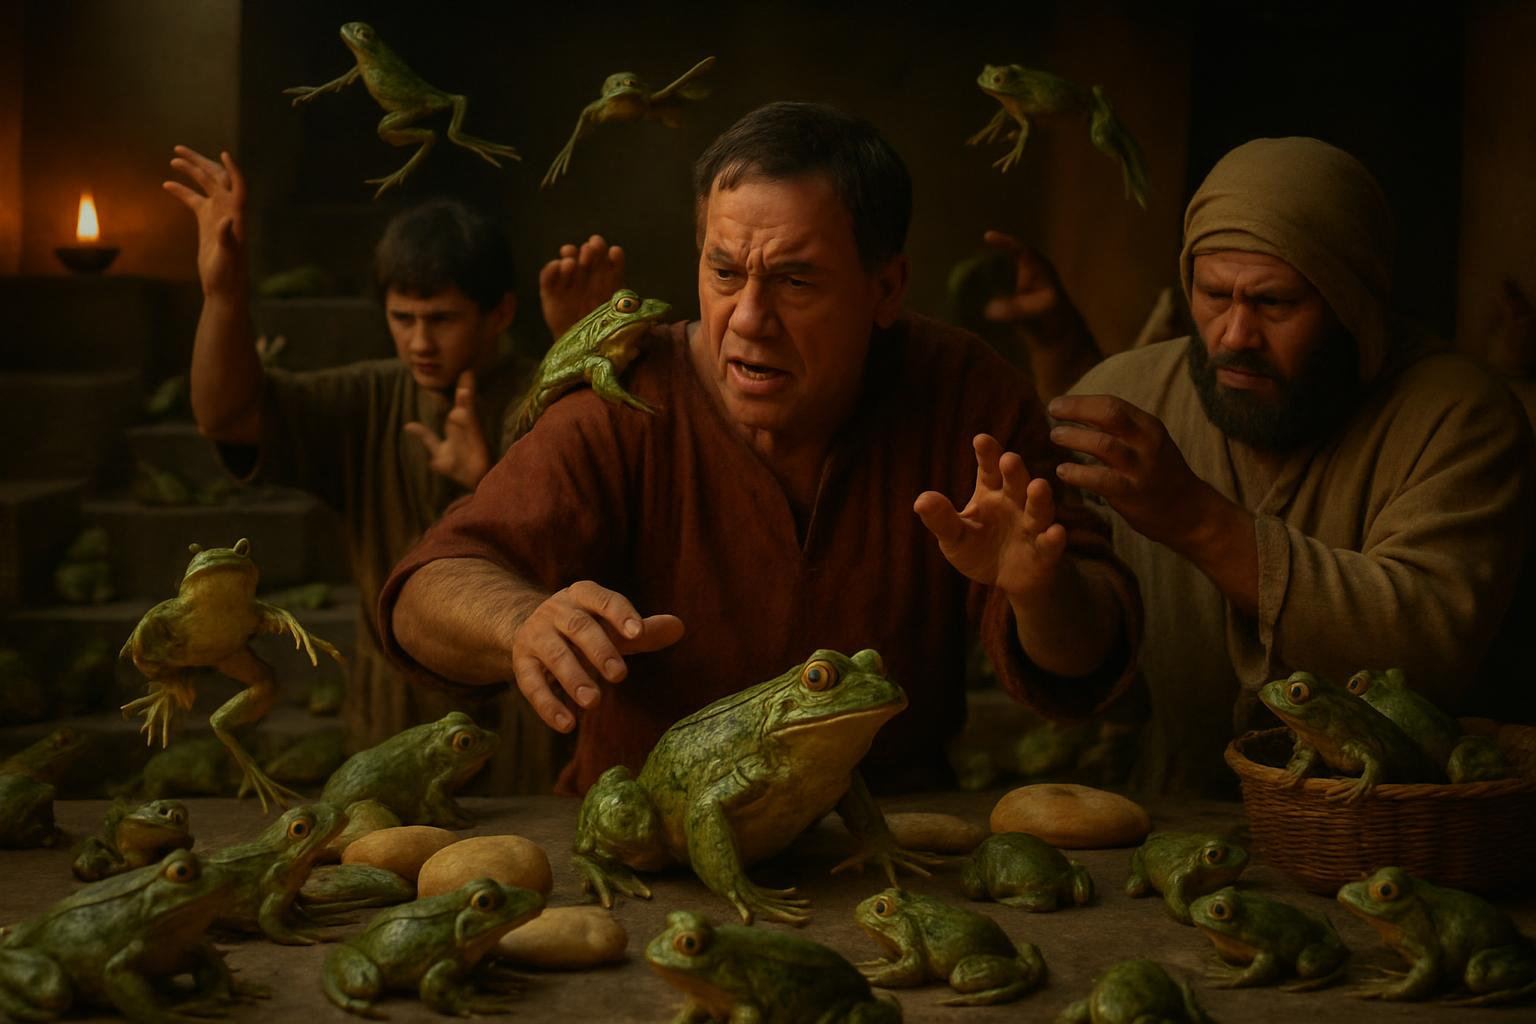
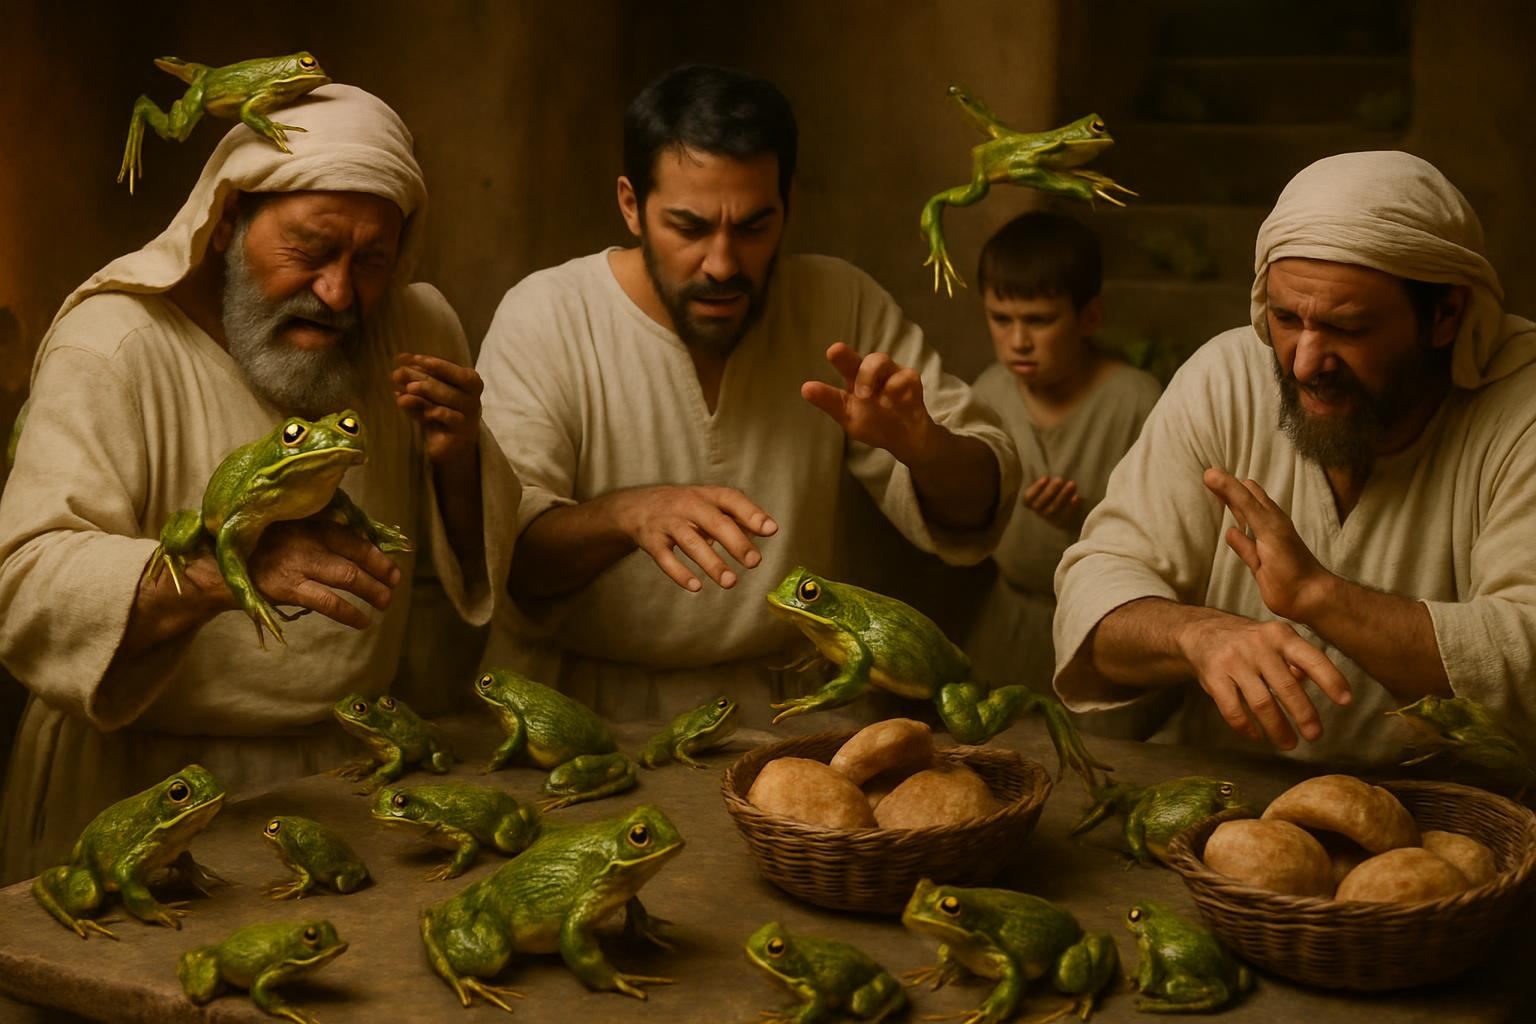
Add images for all ten plagues; rename flies and livestock to Wild animals and Pestilence; update prompts and About text

diff --git a/src/routes/index.tsx b/src/routes/index.tsx
@@ -83,7 +83,7 @@ function Index() {
       </main>
       <footer><span>EXODUS <span className="mx-3">/</span> An ancient story. An enduring hope.</span><span>Images: AI-generated artistic interpretations</span></footer>
       {modalOpen && <div className="reader-overlay" onClick={e => { if (e.target === e.currentTarget) { setChapter(null); setAbout(false); } }}><section className="reader" role="dialog" aria-modal="true" aria-labelledby="reader-title">
-        {chapter ? <><div className="reader-cover"><img src={chapter.image} alt="Biblical artistic interpretation" width={1536} height={1024} /><Button ref={closeButton} className="reader-close" size="icon" variant="cinema" aria-label="Close chapter" onClick={() => setChapter(null)}><X /></Button></div><div className="reader-body"><div className="eyebrow">CHAPTER {String(chapter.id).padStart(2,'0')} · {chapter.act}</div><h2 id="reader-title">{chapter.title}</h2><div className="reader-reference">{chapter.reference}</div><p className="reader-description">{chapter.description}</p><blockquote className="reader-quote">“{chapter.verse}”</blockquote>{chapter.video ? <video controls src={chapter.video} className="w-full mt-6" /> : <div className="reader-status"><Film size={16} /><span>Video unavailable — generation is awaiting workspace credits.</span></div>}{chapter.act === 'The plagues' && <Link to="/plagues/$slug" params={{ slug: chapterSlug(chapter) }} className="inline-block mt-4 text-sm text-primary">Open this plague’s page <ArrowRight className="inline" size={14} /></Link>}<div className="reader-pagination"><Button variant="ghost" disabled={chapter.id === 1} onClick={() => { const previous = chapters[chapter.id - 2]; if (previous) openChapter(previous); }}><ArrowLeft /> Previous</Button><Button variant="outline" disabled={chapter.id === 12} onClick={() => { const next = chapters[chapter.id]; if (next) openChapter(next); }}>Next chapter <ArrowRight /></Button></div></div></> : <div className="about-body"><div className="flex justify-between"><div className="eyebrow"><Sparkles size={14} /> THE STORY OF DELIVERANCE</div><Button ref={closeButton} variant="ghost" size="icon" aria-label="Close about" onClick={() => setAbout(false)}><X /></Button></div><h2 id="reader-title">An ancient story.<br />An enduring hope.</h2><p>EXODUS follows the Old Testament account of Hebrew slavery in Egypt, the ten plagues, the first Passover, and Israel’s departure and crossing of the sea.</p><p>The twelve chapters follow Exodus 1–14. Chapter descriptions are summaries, not scripture quotations.</p><p>Images are AI-generated artistic interpretations, not historical footage. Generated videos are currently unavailable. Themes include enslavement, suffering, and death; the presentation avoids graphic imagery.</p><Button onClick={() => { setAbout(false); openChapter(chapters[0]); }}><BookOpen /> Begin the journey</Button></div>}
+        {chapter ? <><div className="reader-cover"><img src={chapter.image} alt="Biblical artistic interpretation" width={1536} height={1024} /><Button ref={closeButton} className="reader-close" size="icon" variant="cinema" aria-label="Close chapter" onClick={() => setChapter(null)}><X /></Button></div><div className="reader-body"><div className="eyebrow">CHAPTER {String(chapter.id).padStart(2,'0')} · {chapter.act}</div><h2 id="reader-title">{chapter.title}</h2><div className="reader-reference">{chapter.reference}</div><p className="reader-description">{chapter.description}</p><blockquote className="reader-quote">“{chapter.verse}”</blockquote>{chapter.video ? <video controls src={chapter.video} className="w-full mt-6" /> : <div className="reader-status"><Film size={16} /><span>Video unavailable — generation is awaiting workspace credits.</span></div>}{chapter.act === 'The plagues' && <Link to="/plagues/$slug" params={{ slug: chapterSlug(chapter) }} className="inline-block mt-4 text-sm text-primary">Open this plague’s page <ArrowRight className="inline" size={14} /></Link>}<div className="reader-pagination"><Button variant="ghost" disabled={chapter.id === 1} onClick={() => { const previous = chapters[chapter.id - 2]; if (previous) openChapter(previous); }}><ArrowLeft /> Previous</Button><Button variant="outline" disabled={chapter.id === 12} onClick={() => { const next = chapters[chapter.id]; if (next) openChapter(next); }}>Next chapter <ArrowRight /></Button></div></div></> : <div className="about-body"><div className="flex justify-between"><div className="eyebrow"><Sparkles size={14} /> THE STORY OF DELIVERANCE</div><Button ref={closeButton} variant="ghost" size="icon" aria-label="Close about" onClick={() => setAbout(false)}><X /></Button></div><h2 id="reader-title">An ancient story.<br />An enduring hope.</h2><p>EXODUS follows the Old Testament account of Hebrew slavery in Egypt, the ten plagues, the first Passover, and Israel’s departure and crossing of the sea.</p><p>The twelve chapters follow Exodus 1–14. Chapter descriptions are summaries, not scripture quotations.</p><p>Images are AI-generated artistic interpretations, not historical footage. Generated videos are currently unavailable. Themes include enslavement, suffering, and death.</p><Button onClick={() => { setAbout(false); openChapter(chapters[0]); }}><BookOpen /> Begin the journey</Button></div>}
       </section></div>}
     </>
   );

diff --git a/src/lib/exodus-chapters.ts b/src/lib/exodus-chapters.ts
@@ -8,8 +8,8 @@ const baseChapters: Chapter[] = [
   { id: 2, title: 'Water into blood', act: 'The plagues', reference: 'Exodus 7:14–25', description: 'At God’s command, Aaron strikes the Nile with his rod. Its water turns to blood, the fish die, and the Egyptians cannot drink from the river.', verse: 'And all the waters that were in the river were turned to blood.', image: plagues },
   { id: 3, title: 'The frogs', act: 'The plagues', reference: 'Exodus 8:1–15', description: 'Frogs come up from the waters and fill the houses, bedrooms, ovens, and kneading troughs of Egypt. Pharaoh promises release, then hardens his heart when relief comes.', verse: 'And Aaron stretched out his hand over the waters of Egypt; and the frogs came up, and covered the land of Egypt.', image: plagues },
   { id: 4, title: 'The lice', act: 'The plagues', reference: 'Exodus 8:16–19', description: 'Aaron strikes the dust, and it becomes lice on people and animals. The Egyptian magicians cannot reproduce this sign. Some translations call these insects gnats.', verse: 'Then the magicians said unto Pharaoh, This is the finger of God.', image: plagues },
-  { id: 5, title: 'The flies', act: 'The plagues', reference: 'Exodus 8:20–32', description: 'Swarms of flies fill the homes and land of Egypt. Goshen, where the Israelites live, is spared. Pharaoh again refuses to let the people go after the plague is removed.', verse: 'And the LORD did so; and there came a grievous swarm of flies into the house of Pharaoh, and into his servants’ houses, and into all the land of Egypt.', image: plagues },
-  { id: 6, title: 'The livestock', act: 'The plagues', reference: 'Exodus 9:1–7', description: 'A severe pestilence strikes Egypt’s livestock in the field. The livestock of Israel is spared, but Pharaoh’s heart remains hardened.', verse: 'And the LORD shall sever between the cattle of Israel and the cattle of Egypt: and there shall nothing die of all that is the children’s of Israel.', image: plagues },
+  { id: 5, title: 'Wild animals', act: 'The plagues', reference: 'Exodus 8:20–32', description: 'Swarms of wild animals fill the houses and land of Egypt (some translations say flies or swarms of insects). Goshen, where the Israelites live, is spared. Pharaoh again refuses to let the people go after the plague is removed.', verse: 'And I will put a division between my people and thy people: to morrow shall this sign be.', image: plagues },
+  { id: 6, title: 'Pestilence', act: 'The plagues', reference: 'Exodus 9:1–7', description: 'A severe pestilence strikes Egypt’s livestock in the field. The livestock of Israel is spared, but Pharaoh’s heart remains hardened.', verse: 'And the LORD shall sever between the cattle of Israel and the cattle of Egypt: and there shall nothing die of all that is the children’s of Israel.', image: plagues },
   { id: 7, title: 'The boils', act: 'The plagues', reference: 'Exodus 9:8–12', description: 'Moses scatters furnace ashes toward heaven. Painful boils break out on people and animals throughout Egypt; even the magicians cannot stand before Moses.', verse: 'And they took ashes of the furnace, and stood before Pharaoh; and Moses sprinkled it up toward heaven.', image: plagues },
   { id: 8, title: 'The hail', act: 'The plagues', reference: 'Exodus 9:13–35', description: 'Thunder, hail, and fire strike Egypt’s fields. Those who heed the warning shelter their servants and livestock. Goshen alone receives no hail.', verse: 'Only in the land of Goshen, where the children of Israel were, was there no hail.', image: plagues },
   { id: 9, title: 'The locusts', act: 'The plagues', reference: 'Exodus 10:1–20', description: 'An east wind brings locusts over Egypt. They consume what the hail left behind, until a west wind carries them away. Pharaoh still refuses release.', verse: 'For they covered the face of the whole earth, so that the land was darkened.', image: plagues },

diff --git a/src/lib/exodus-chapters.test.ts b/src/lib/exodus-chapters.test.ts
@@ -2,6 +2,6 @@ import { describe, expect, it } from 'vitest';
 import { chapters } from './exodus-chapters';
 describe('Biblical chapter sequence', () => {
   it('begins with Hebrew slavery in Egypt', () => { expect(chapters[0]?.act).toBe('Bondage'); expect(chapters[0]?.reference).toBe('Exodus 1:8–14'); });
-  it('includes the ten plagues in their biblical order', () => { expect(chapters.filter(c => c.act === 'The plagues').map(c => c.title)).toEqual(['Water into blood', 'The frogs', 'The lice', 'The flies', 'The livestock', 'The boils', 'The hail', 'The locusts', 'The darkness', 'The firstborn & Passover']); });
+  it('includes the ten plagues in their biblical order', () => { expect(chapters.filter(c => c.act === 'The plagues').map(c => c.title)).toEqual(['Water into blood', 'The frogs', 'The lice', 'Wild animals', 'Pestilence', 'The boils', 'The hail', 'The locusts', 'The darkness', 'The firstborn & Passover']); });
   it('ends with the departure and sea crossing', () => { expect(chapters.at(-1)?.reference).toBe('Exodus 12:33–14:31'); expect(chapters.at(-1)?.act).toBe('Deliverance'); });
 });
